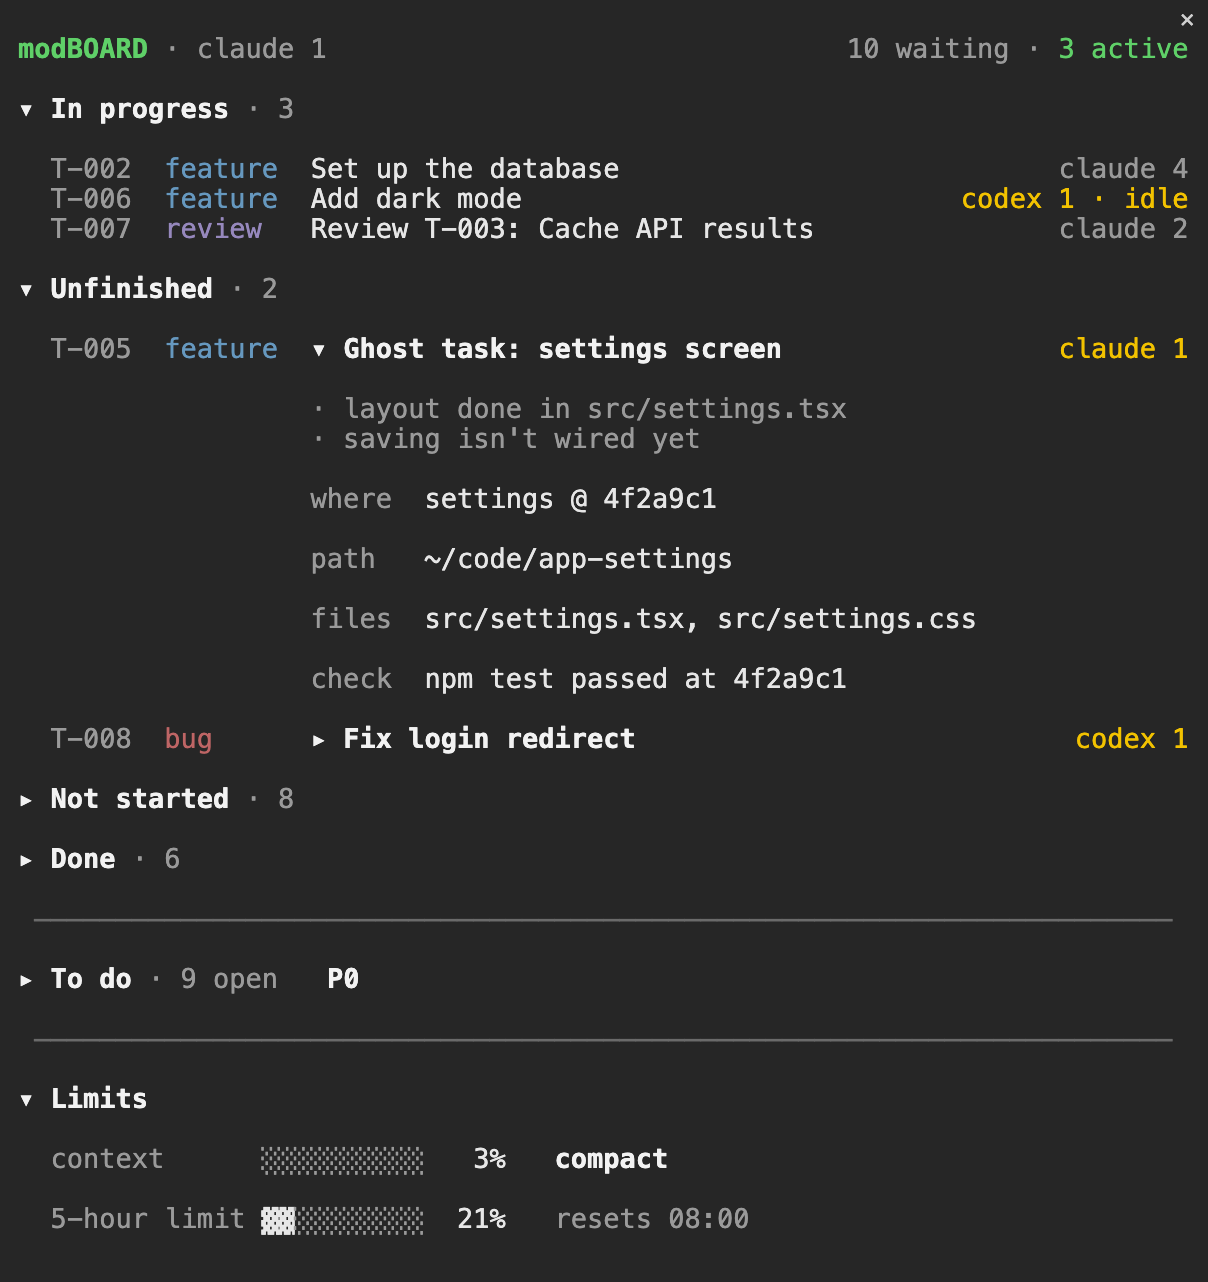
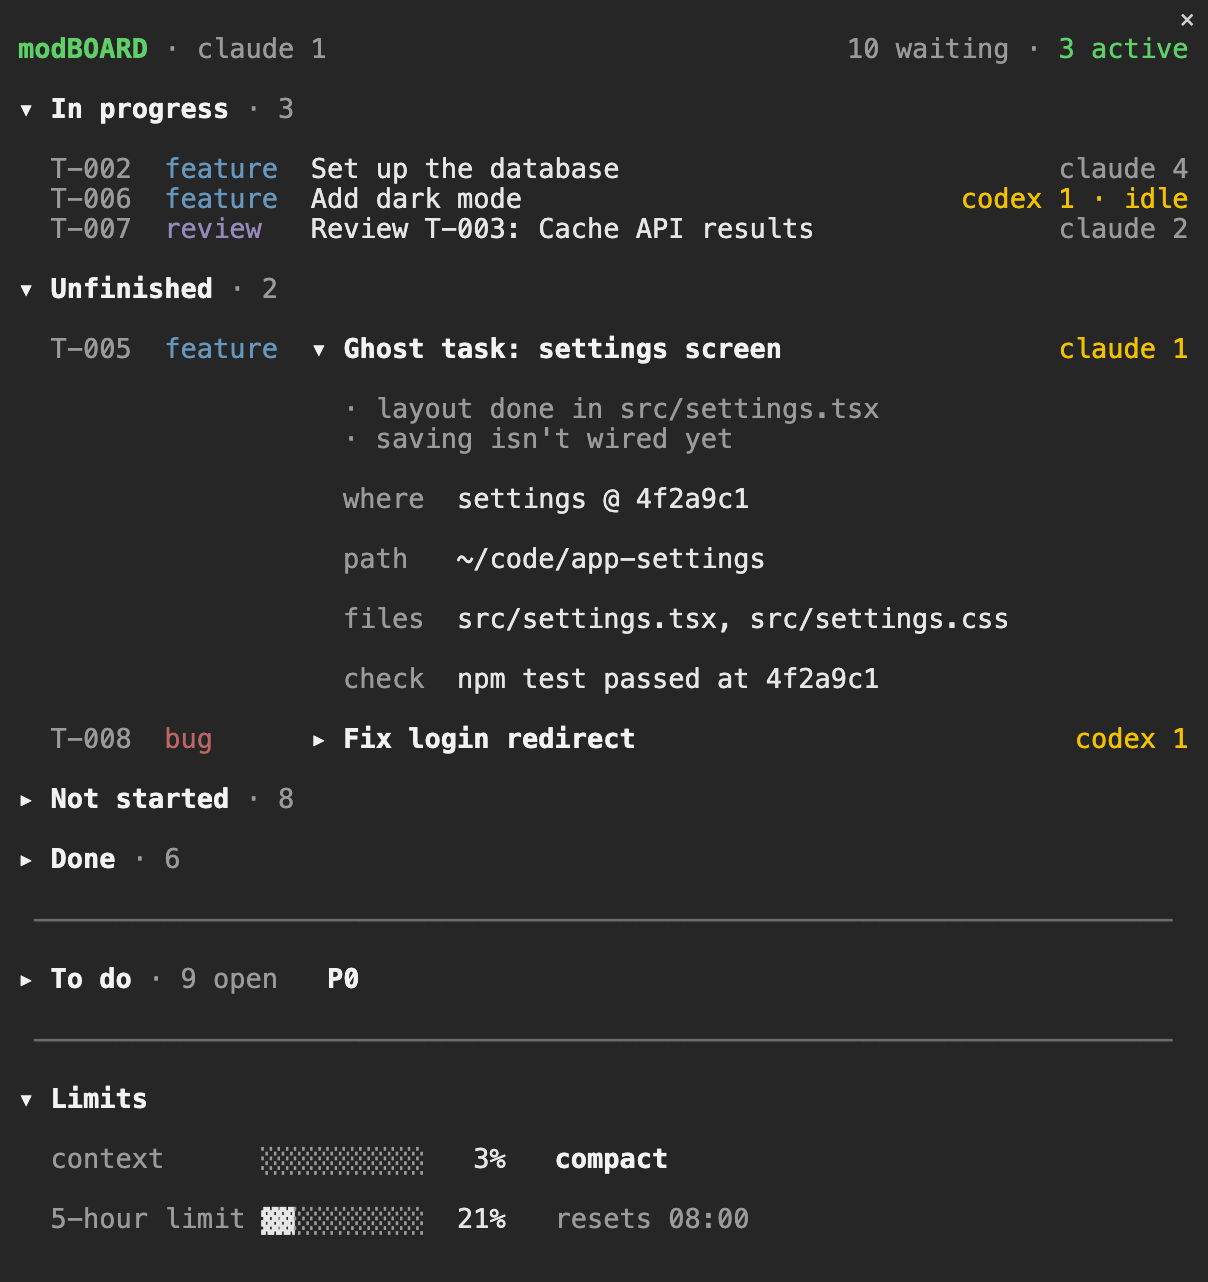
VERIFIED and HANDOFF once; handoff points under the title's words
The board writes VERIFIED: and HANDOFF: itself, so a done note or handoff
that already started with the word read it twice. It's now dropped from
the text first; a note that is only the word still counts as none.

A handoff's points and facts start past the title's arrow, under its
words, as a group's rows sit under its heading.

Changed region(s): [[0.245, 0.312, 0.827, 0.5616]]

diff --git a/hooks/blocks/tasks.tsx b/hooks/blocks/tasks.tsx
@@ -48,8 +48,9 @@ export function label(l: string): { text: string; color?: string } {
 function Row(c: Ctx, t: Task, kindW = 0) {
   const { Box, Button, Text } = c.ui
   const kind = kindW ? kindOf(t) : undefined
-  // Handoff points and facts line up under the title.
-  const under = 7 + kindW
+  // Handoff points and facts line up under the title's text, past its arrow
+  // ("▾ "), as a group's rows sit under its heading's words.
+  const under = 7 + kindW + 2
   const { text, warn } = status(t, c)
   // Work left partway shows its handoff under the title: what is done and what
   // is left, as the agent wrote it, one point a line where it used semicolons.

diff --git a/tests/pane.test.tsx b/tests/pane.test.tsx
@@ -213,6 +213,11 @@ test('a handoff written with semicolons shows one point a line', async ($, on) =
   const shown = await texts(ui)
   expect(shown).toContain('· layout done in src/settings.tsx')
   expect(shown).toContain('· saving is not wired yet')
+  // The points start under the title's words, past its arrow ("▾ "): the
+  // ID's 7 columns, then the arrow's 2.
+  const pads = ((await ui.findAll({ type: 'Box' })) as any[]).map(x => x.props.paddingLeft).filter(Boolean)
+  expect(pads).toContain(9)
+  expect(pads).not.toContain(7)
   await ui.unmount()
 })
 

diff --git a/docs/TUTORIAL.md b/docs/TUTORIAL.md
@@ -328,16 +328,16 @@ waiting or in progress, it disappears.
  ▾ Unfinished · 1
 
    T-005  ▾ Ghost task                          claude 3
-          · layout done
-          · saving isn't wired yet
+            · layout done
+            · saving isn't wired yet
 
-          where  settings @ 4f2a9c1, uncommitted changes
+            where  settings @ 4f2a9c1, uncommitted changes
 
-          path   ~/code/app-settings
+            path   ~/code/app-settings
 
-          files  src/settings.tsx, src/settings.css
+            files  src/settings.tsx, src/settings.css
 
-          check  npm test passed at 4f2a9c1, before uncommitted changes
+            check  npm test passed at 4f2a9c1, before uncommitted changes
 
  ▸ Not started · 12
 

diff --git a/CHANGELOG.md b/CHANGELOG.md
@@ -3,6 +3,18 @@
 All notable changes to modboard. Versions follow [semantic versioning](https://semver.org/).
 modboard was called agent-board until 0.5.0.
 
+## 0.11.1 — 2026-11-25
+
+### Fixed
+
+- **A done note or handoff that already says `VERIFIED:` or `HANDOFF:`
+  shows it once.** The board writes the word itself, so
+  `board done --note "VERIFIED: tests pass"` used to read
+  `VERIFIED: VERIFIED: tests pass`. A note that is only the word still
+  counts as no note.
+- **A handoff's points line up with its title's words**, past the `▾`
+  before it, as a group's rows sit under its heading.
+
 ## 0.11.0 — 2026-11-25
 
 ### Changed
